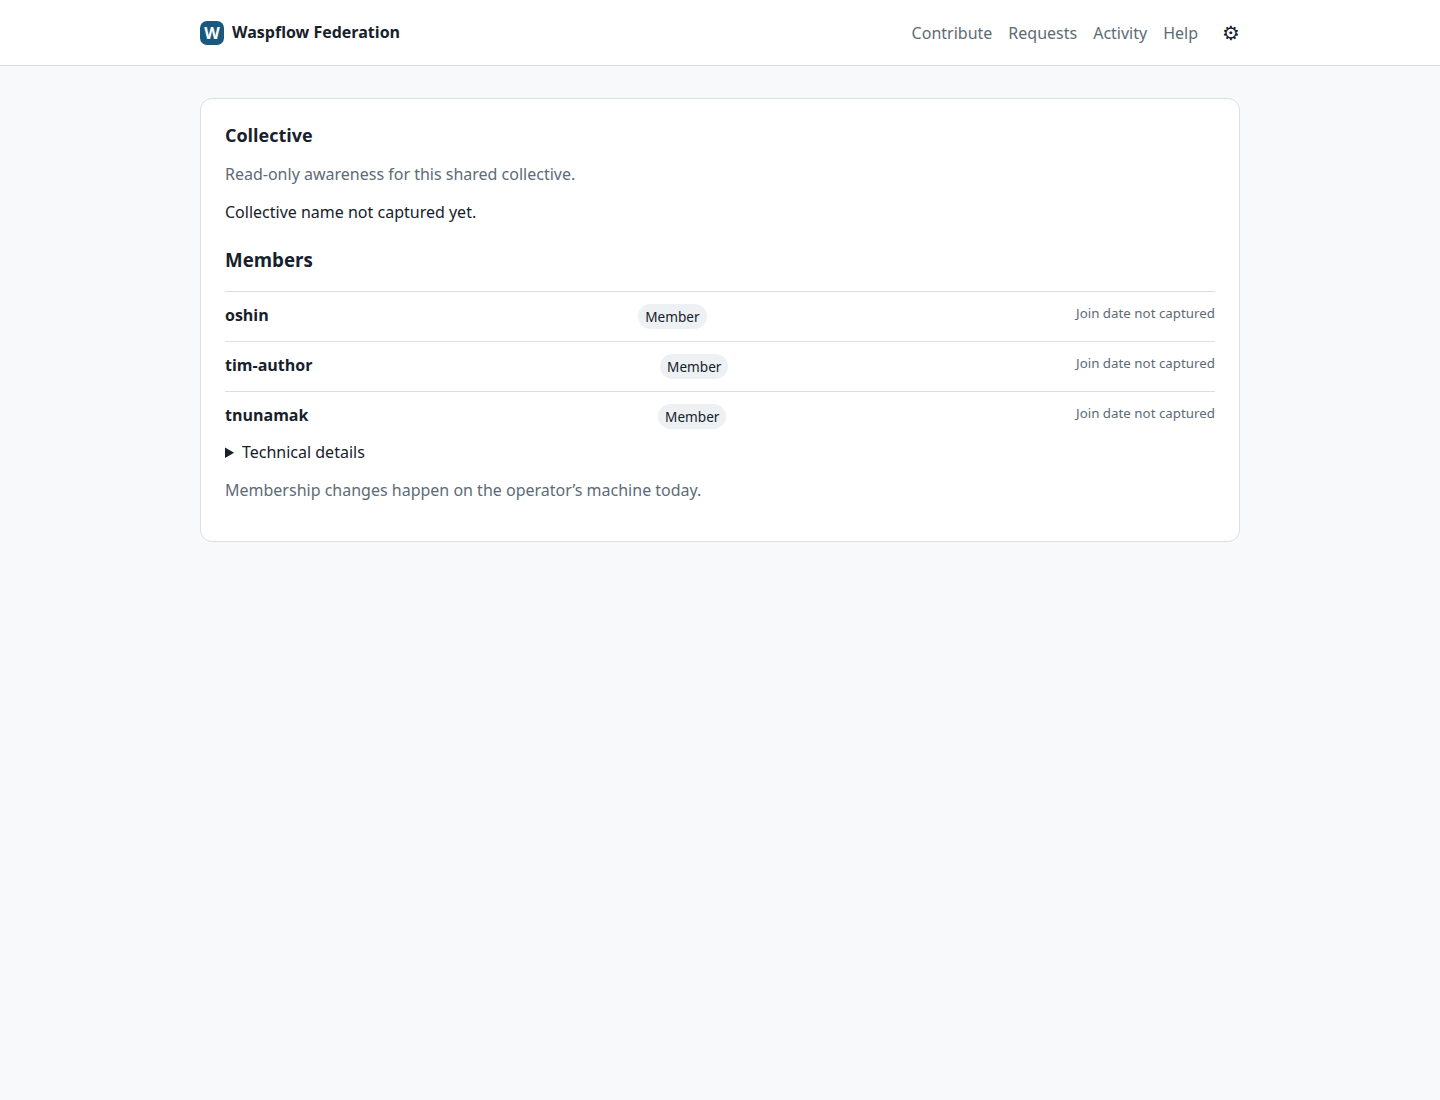
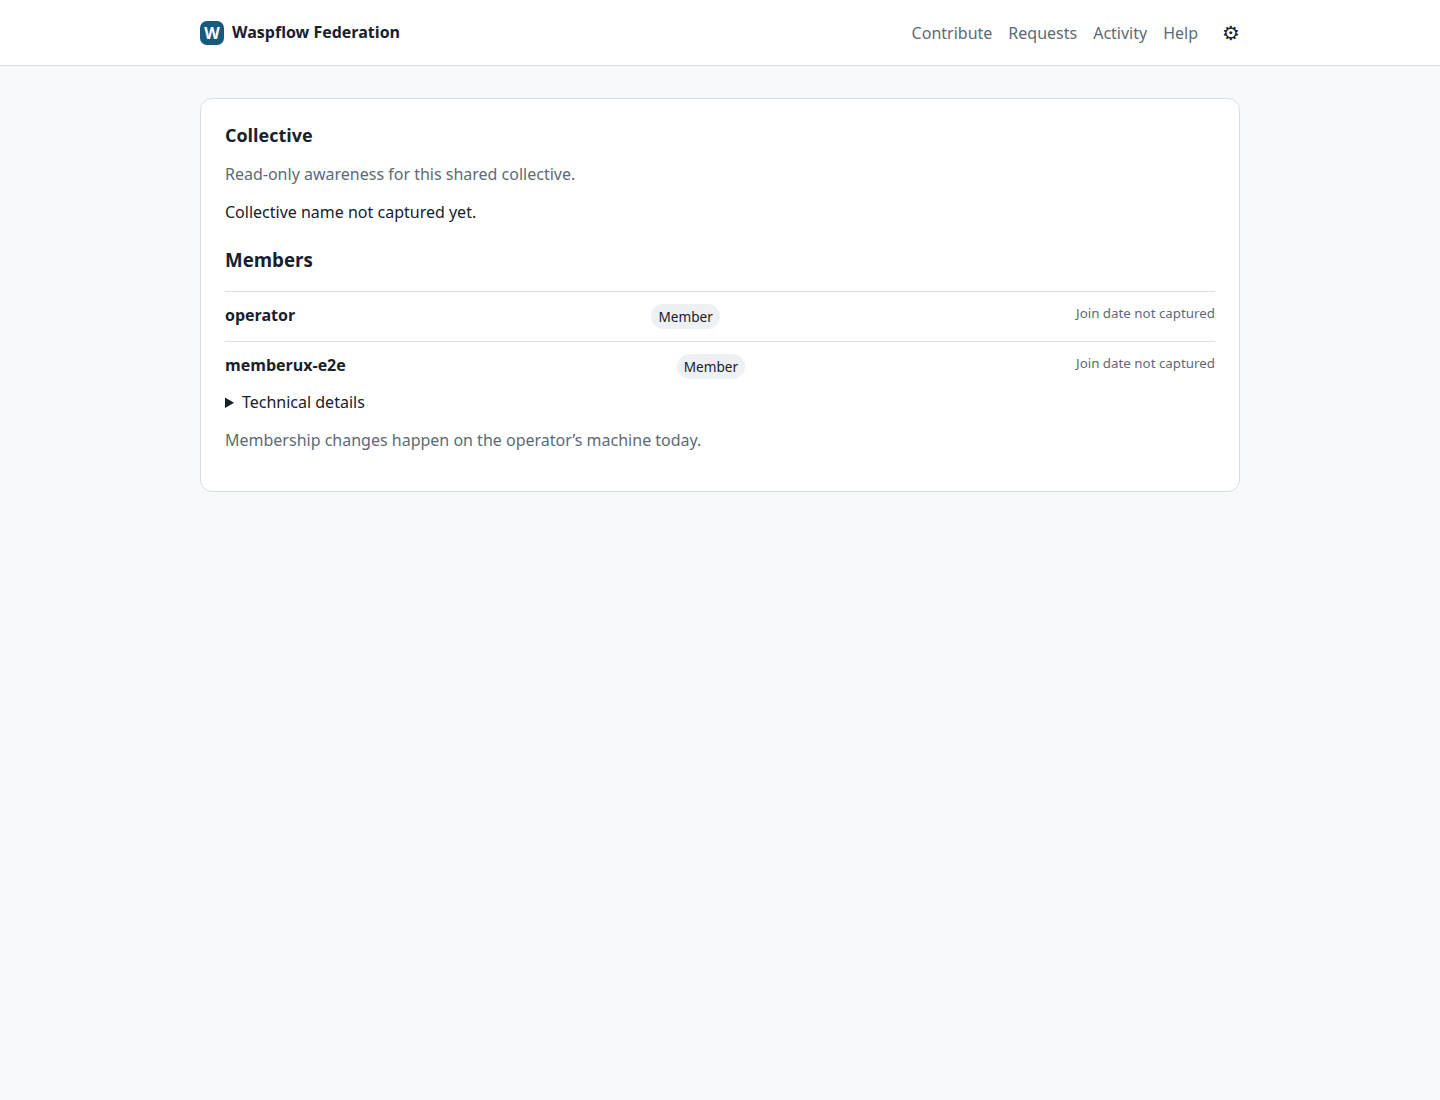
fix(federation-ui): stop polling collective routes from an un-joined daemon
The join screen's poller hit /roster, /activity, and /requests every 1.5s
against a daemon that 409s all three before a collective exists — console
and network noise on the very first screen a member sees. Gate those
fetches on the joined state.

diff --git a/ui/src/main.jsx b/ui/src/main.jsx
@@ -79,7 +79,7 @@ function Help({ identity }) { return <div className="view-stack"><Panel title="H
 function App() {
   const token = new URLSearchParams(location.search).get('token') || ''; const [state, setState] = useState({ status: null, tasks: [], requests: [], ledger: [], identity: null, settings: null, roster: [], coordinatorUnavailable: false, sessionExpired: false, daemonUnavailable: false, message: '', submission: null }); const [form, setForm] = useState(EMPTY_FORM); const [route, setRoute] = useState(() => routeFromHash(location.hash)); const [task, setTask] = useState(null); const [log, setLog] = useState(null);
   const request = useCallback(async (path, options = {}) => { const response = await fetch(path, { ...options, headers: { 'x-waspflow-session-token': token, ...(options.body ? { 'content-type': 'application/json' } : {}) } }); let body = {}; try { body = await response.json(); } catch {} if (!response.ok) { const error = new Error(body.error || 'Waspflow could not complete that request.'); error.status = response.status; throw error; } return body; }, [token]);
-  const refresh = useCallback(async () => { try { const status = await request('/status'); const coordinatorReady = !status.coordinator_unavailable; const [tasks, ledger, identity, settings, roster, activity, requests] = await Promise.all([status.state === 'idle' ? request('/tasks').catch(() => []) : Promise.resolve([]), request('/ledger').catch(() => []), request('/identity').catch(() => null), request('/settings').catch(() => null), coordinatorReady ? request('/roster').catch(() => []) : Promise.resolve([]), coordinatorReady ? request('/activity').catch(() => []) : Promise.resolve([]), coordinatorReady ? request('/requests').catch(() => null) : Promise.resolve(null)]); setState((old) => ({ ...old, status, tasks: asArray(tasks), ledger: asArray(ledger), identity: identity || { key_id: status.key_id, coordinator_url: status.coordinator_url }, settings, roster: asArray(roster?.roster || roster), requests: requests ? asArray(requests) : asArray(ledger).filter((entry) => entry.author === 'me' || entry.role === 'requester' || entry.requester === true), coordinatorUnavailable: Boolean(status.coordinator_unavailable), daemonUnavailable: false })); } catch (error) { if (error.status === 401) setState((old) => ({ ...old, sessionExpired: true })); else setState((old) => ({ ...old, daemonUnavailable: true })); } }, [request]);
+  const refresh = useCallback(async () => { try { const status = await request('/status'); const coordinatorReady = !status.coordinator_unavailable && status.state !== 'not_joined'; /* an un-joined daemon 409s every collective route; don't poll-spam them from the join screen */ const [tasks, ledger, identity, settings, roster, activity, requests] = await Promise.all([status.state === 'idle' ? request('/tasks').catch(() => []) : Promise.resolve([]), request('/ledger').catch(() => []), request('/identity').catch(() => null), request('/settings').catch(() => null), coordinatorReady ? request('/roster').catch(() => []) : Promise.resolve([]), coordinatorReady ? request('/activity').catch(() => []) : Promise.resolve([]), coordinatorReady ? request('/requests').catch(() => null) : Promise.resolve(null)]); setState((old) => ({ ...old, status, tasks: asArray(tasks), ledger: asArray(ledger), identity: identity || { key_id: status.key_id, coordinator_url: status.coordinator_url }, settings, roster: asArray(roster?.roster || roster), requests: requests ? asArray(requests) : asArray(ledger).filter((entry) => entry.author === 'me' || entry.role === 'requester' || entry.requester === true), coordinatorUnavailable: Boolean(status.coordinator_unavailable), daemonUnavailable: false })); } catch (error) { if (error.status === 401) setState((old) => ({ ...old, sessionExpired: true })); else setState((old) => ({ ...old, daemonUnavailable: true })); } }, [request]);
   useEffect(() => { const hash = () => setRoute(routeFromHash(location.hash)); addEventListener('hashchange', hash); if (state.sessionExpired) return () => removeEventListener('hashchange', hash); refresh(); const timer = setInterval(refresh, POLL_INTERVAL_MS); return () => { removeEventListener('hashchange', hash); clearInterval(timer); }; }, [refresh, state.sessionExpired]);
   const control = async (path, body) => { try { const status = await request(path, { method: 'POST', body: body ? JSON.stringify(body) : undefined }); setState((old) => ({ ...old, status, message: '' })); } catch (error) { setState((old) => ({ ...old, message: error.message })); } };
   const submit = async (value) => { try { const attachments = await Promise.all(value.files.map(encodeAttachment)); const bytes = attachments.reduce((total, file) => total + Math.floor(file.data_base64.length * 3 / 4), 0); if (bytes > 20 * 1024 * 1024) throw new Error('Attachments are limited to 20 MB. Choose fewer or smaller files.'); const body = { ...value, attachments, network: value.git_url ? 'enabled' : value.network ? 'enabled' : 'disabled' }; delete body.files; const status = await request('/submit', { method: 'POST', body: JSON.stringify(body) }); setForm(EMPTY_FORM); setState((old) => ({ ...old, status, submission: status.submission, message: '' })); location.hash = '#/requests'; } catch (error) { setForm((old) => ({ ...old, error: error.message })); } };